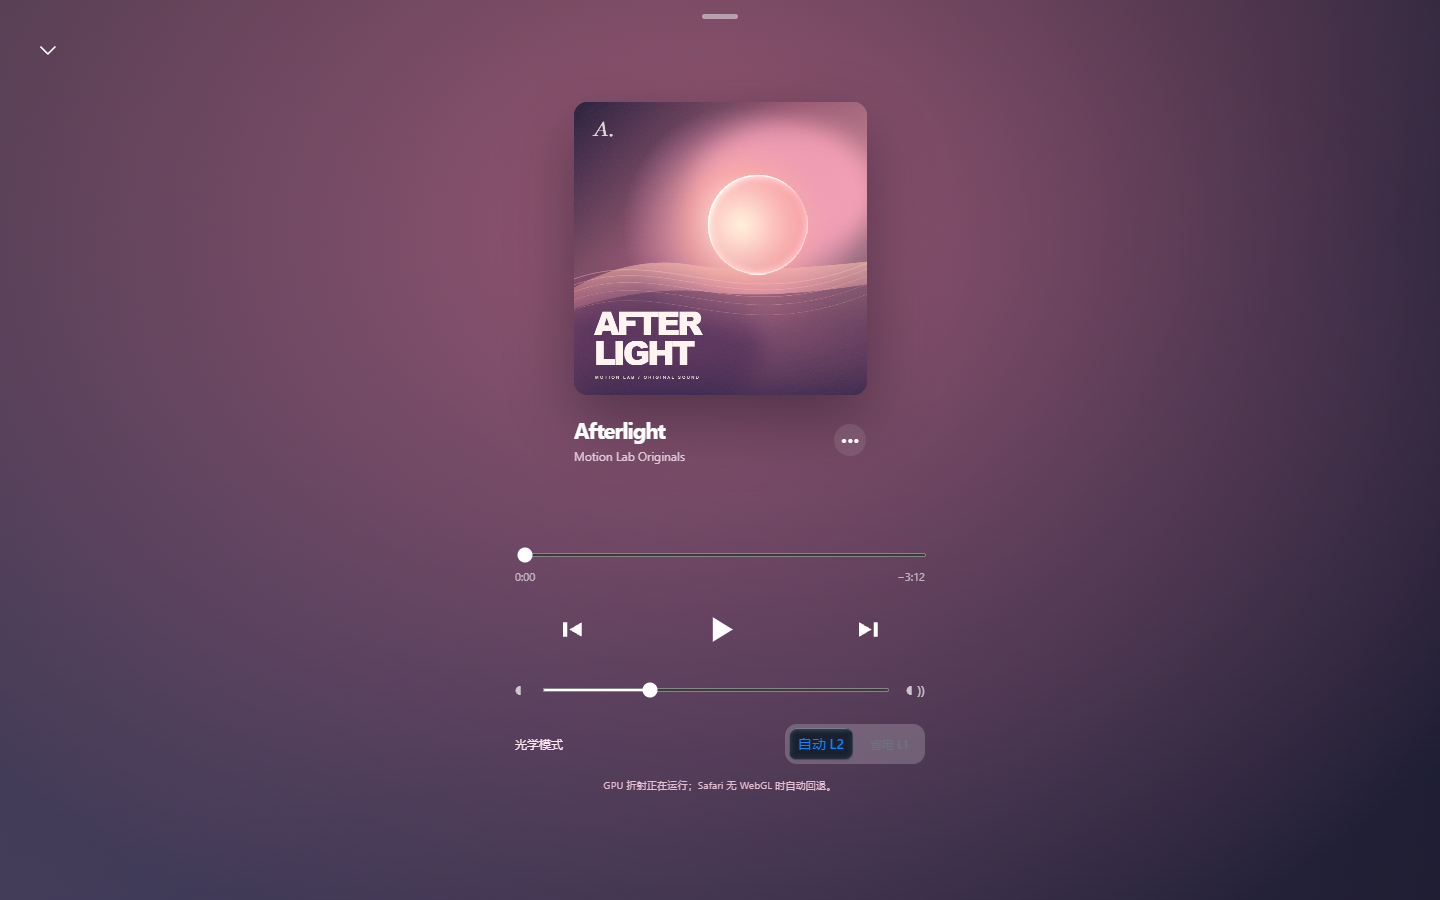
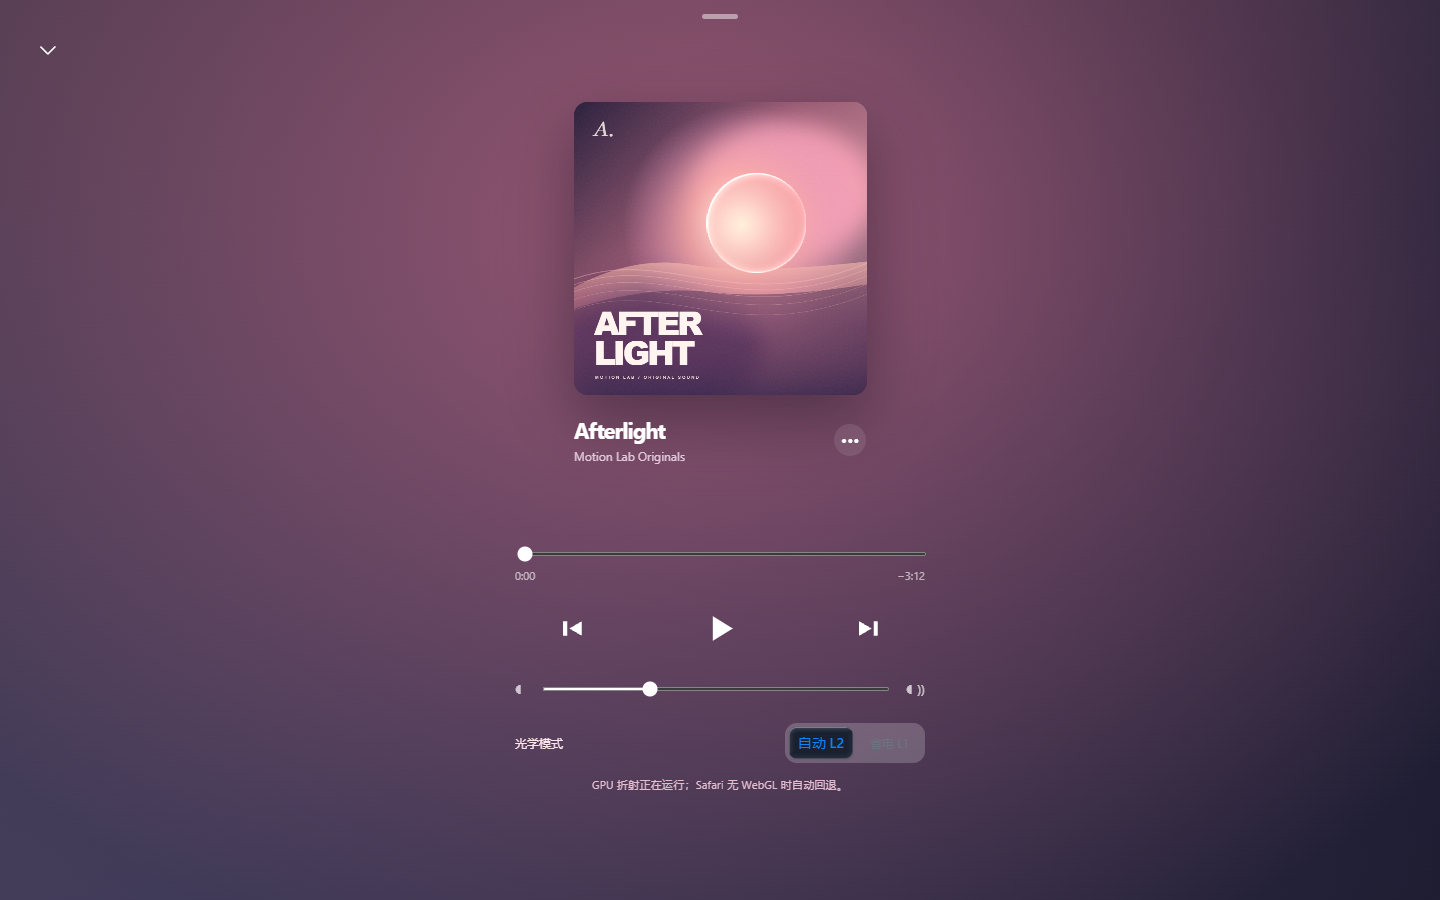
Refine Apple Motion Lab glass UI and add deeper interaction QA

diff --git a/little-works/apple-motion-lab/style.css b/little-works/apple-motion-lab/style.css
@@ -33,3 +33,7 @@
 .side-foot{line-height:1.7}
 .cover-caption{font-size:11px}
 
+/* Visual review: remove nonessential CTA glow and keep navigation/diagnostic copy legible. */
+.hero-action{box-shadow:none}
+#navigation .lg-nav__copy>span,.nav-container lg-navbar>button{font-size:11px}
+.quality-message,.endnote{font-size:11px}

diff --git a/little-works/apple-motion-lab/SKILL_AUDIT.md b/little-works/apple-motion-lab/SKILL_AUDIT.md
@@ -29,7 +29,7 @@ The native packages do NOT provide an Apple Music player, track selection, one-D
 - Windows Edge (Chromium) mobile emulation 390x844, 1440x900 and 320x700; Playwright real click, mouse drag and CDP touch dispatch, plus JS runtime evaluation.
 - 28/28 functional checks passed, 0 uncaught browser JS errors: evidence/qa-report.json.
 - GPU actual pixels returned [249,198,192,255]; WebGL renders >0. Tested L1 off and L2 restored. This validates a running WebGL path, NOT pixel-level equivalence to Apple native optics. No GPU refraction A/B side-by-side quantitative optical accuracy comparison yet.
-- 12 consecutive spring-target interruptions at each viewport and eventual settle to 1: evidence/performance.json. An additional repeatable independent stress script scripts/qa-stress.cjs produced evidence/stress-report.json: 12/12 passed, including **70** spring reversals, measured WebGL displacement-map uploads staying at 1 while the player moves, visual difference between L1 and L2, actual Web Audio playback, Escape close, press spring feedback, reduced-motion snap and hardware WebGL failure fallback. Headless Edge rAF sampled 201fps (390) and 240fps (1440) over ~2.3 seconds with SwiftShader; these are **unthrottled headless callback rates, not display fps** and do not indicate physical device screen refresh or energy efficiency. No actual iPhone Safari FPS measurements.
+- 12 consecutive spring-target interruptions at each viewport and eventual settle to 1: evidence/performance.json. An additional repeatable independent stress script scripts/qa-stress.cjs produced evidence/stress-report.json: 14/14 passed, including **70** spring reversals, measured WebGL displacement-map uploads staying at 1 while the player moves, visual difference between L1 and L2, actual Web Audio playback, Escape close, press spring feedback, reduced-motion snap and hardware WebGL failure fallback. Headless Edge rAF sampled 201fps (390) and 240fps (1440) over ~2.3 seconds with SwiftShader; these are **unthrottled headless callback rates, not display fps** and do not indicate physical device screen refresh or energy efficiency. No actual iPhone Safari FPS measurements.
 - Screenshots: qa-mobile.png, qa-desktop.png, qa-mobile-full.png, qa-desktop-full.png and original design-inspector output.
 
 ## Taste inspection detailed disposition
@@ -41,6 +41,12 @@ Taste's app-mode inspector did run and returned FAIL on gradient, button-fx, hea
 - The background/unknown scroll DOM in Safari/Firefox may use frosted fallback rather than L2 refraction; Safari video compositing differences are documented in Skill references but not exercised on a Mac.
 - Album art is original illustrative SVG, music is a simple synthesized ambience, not a fully-featured streaming Apple Music clone.
 - Some Taste app-style findings remain; external native-equivalent visual comparison has not been pixel-matched with reference footage. No human quality approval collected.
+
+## 2026-10-28 incremental QA / visual refinement
+- 14/14 stress checks after adding direct runtime checks for the native `lg-navbar` SVG filter and a 52% shared-element transition frame (evidence/transition-mid-390.png).
+- WebGL cached displacement map uploaded 1 time despite 70 retargets. Runtime navbar computed filter: `url("#lg3-v2")`; backdrop refraction `url("#lg2-v2")` on Edge.
+- Intentional media imagery gradients retained. Generic Taste lint still warns on gradients and floating shadows; this is **not** a claim of 0 Taste failures.
+- Removed excess primary CTA glow and raised tiny navigation/diagnostic labels to 11px. The latest test does not establish Apple/iPhone native parity.
 
 ## Publication scope
 Only add little-works/apple-motion-lab/ and one catalog entry. Release from freshest remote main with isolated integration worktree, ordinary push and live Pages smoke; no other works overwritten. Publication evidence must be appended with actual result only.
